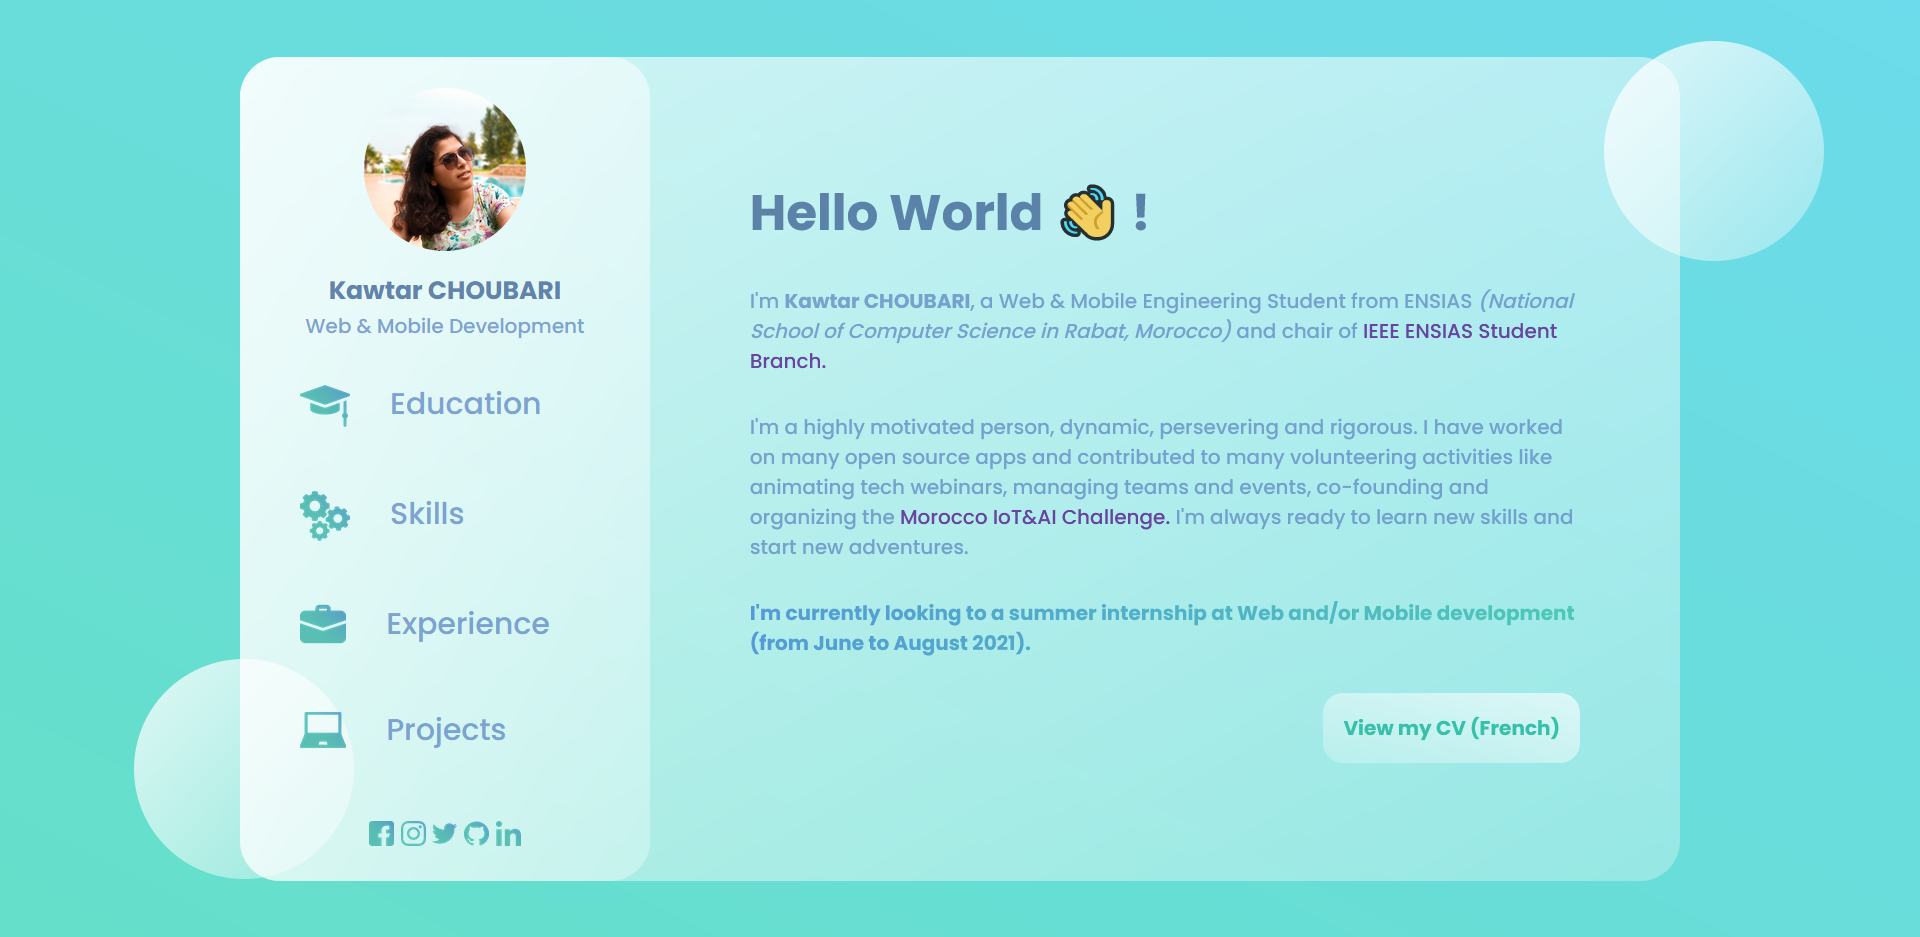
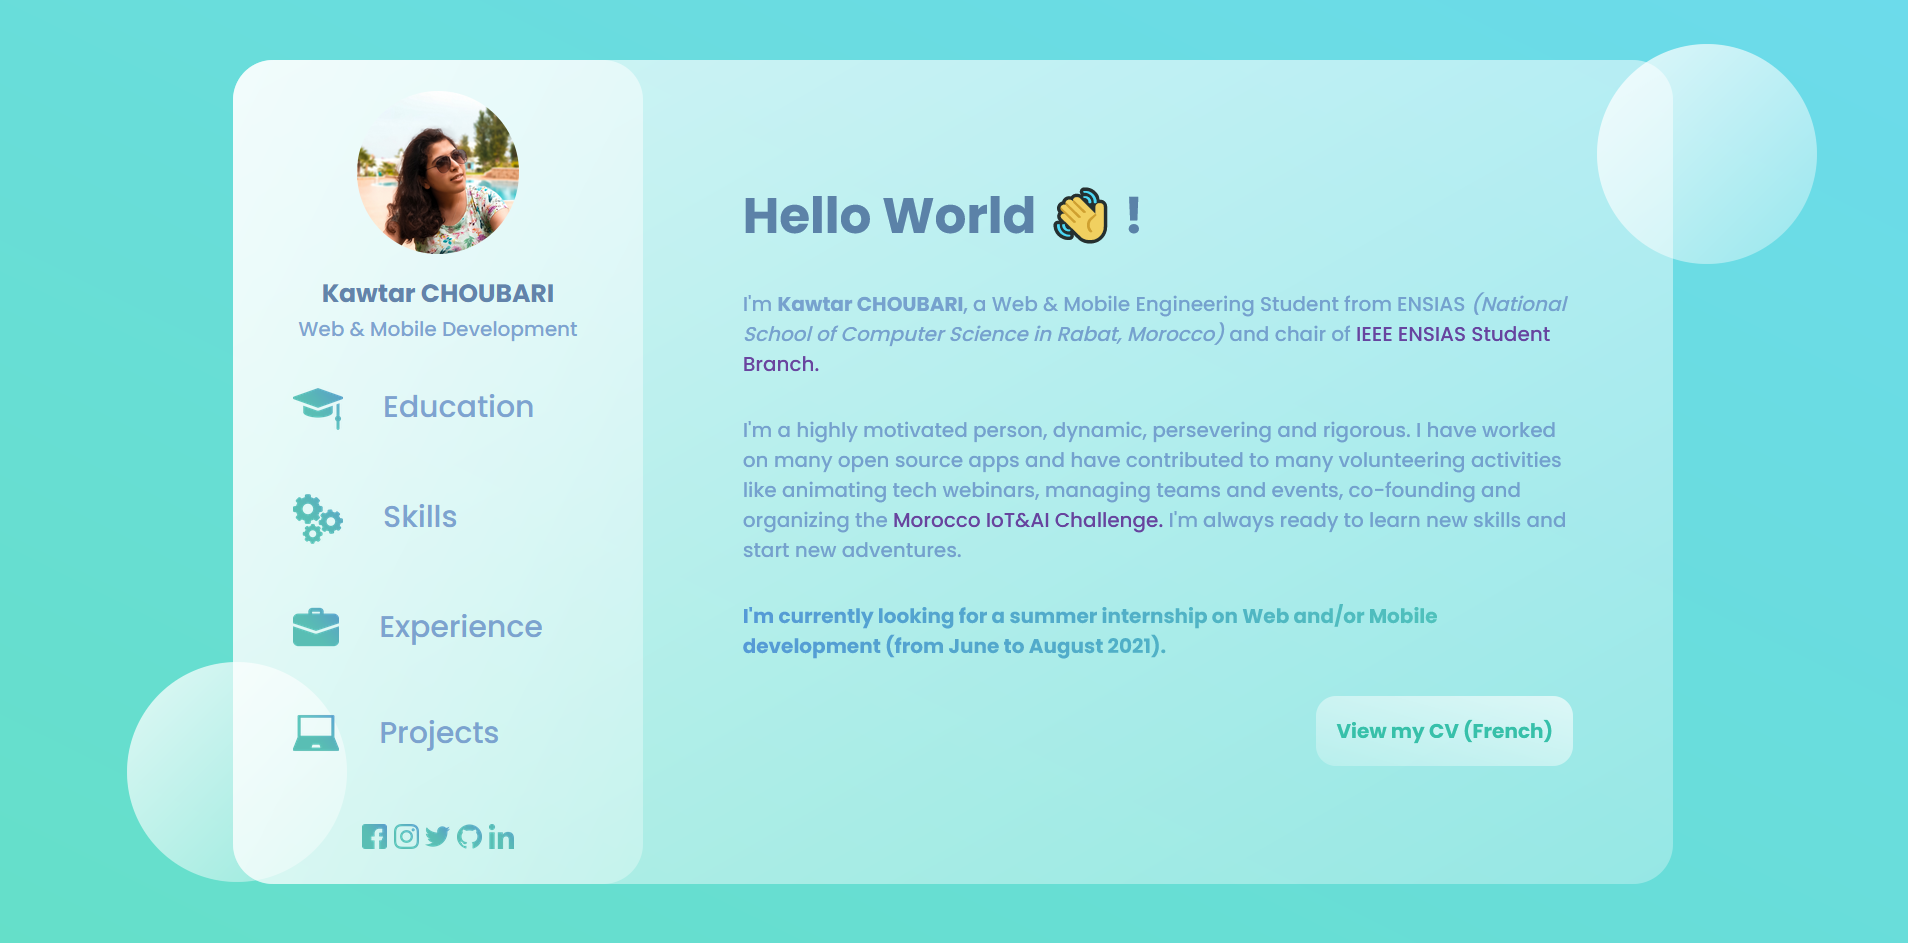
fix typos

diff --git a/index.html b/index.html
@@ -76,11 +76,11 @@
         <br>
 
         <p>I'm a highly motivated person, dynamic, persevering and rigorous. I have worked on many open source apps
-          and contributed to many volunteering activities like animating tech webinars, managing teams and events,
+          and have contributed to many volunteering activities like animating tech webinars, managing teams and events,
           co-founding and organizing the <a href="https://morocco.arabiotai.org/">Morocco IoT&AI Challenge.</a> I'm
           always ready to learn new skills and start new adventures.</p>
         <br>
-        <p class="gradient-par">I'm currently looking to a summer internship at Web and/or Mobile development (from
+        <p class="gradient-par">I'm currently looking for a summer internship on Web and/or Mobile development (from
           June to August 2021).</p>
         <br>
         <a href="https://drive.google.com/file/d/1NAfTZ_1FknrnCiSsQp9eKtZSka-f9QDV/view?usp=sharing" target="_blank">
